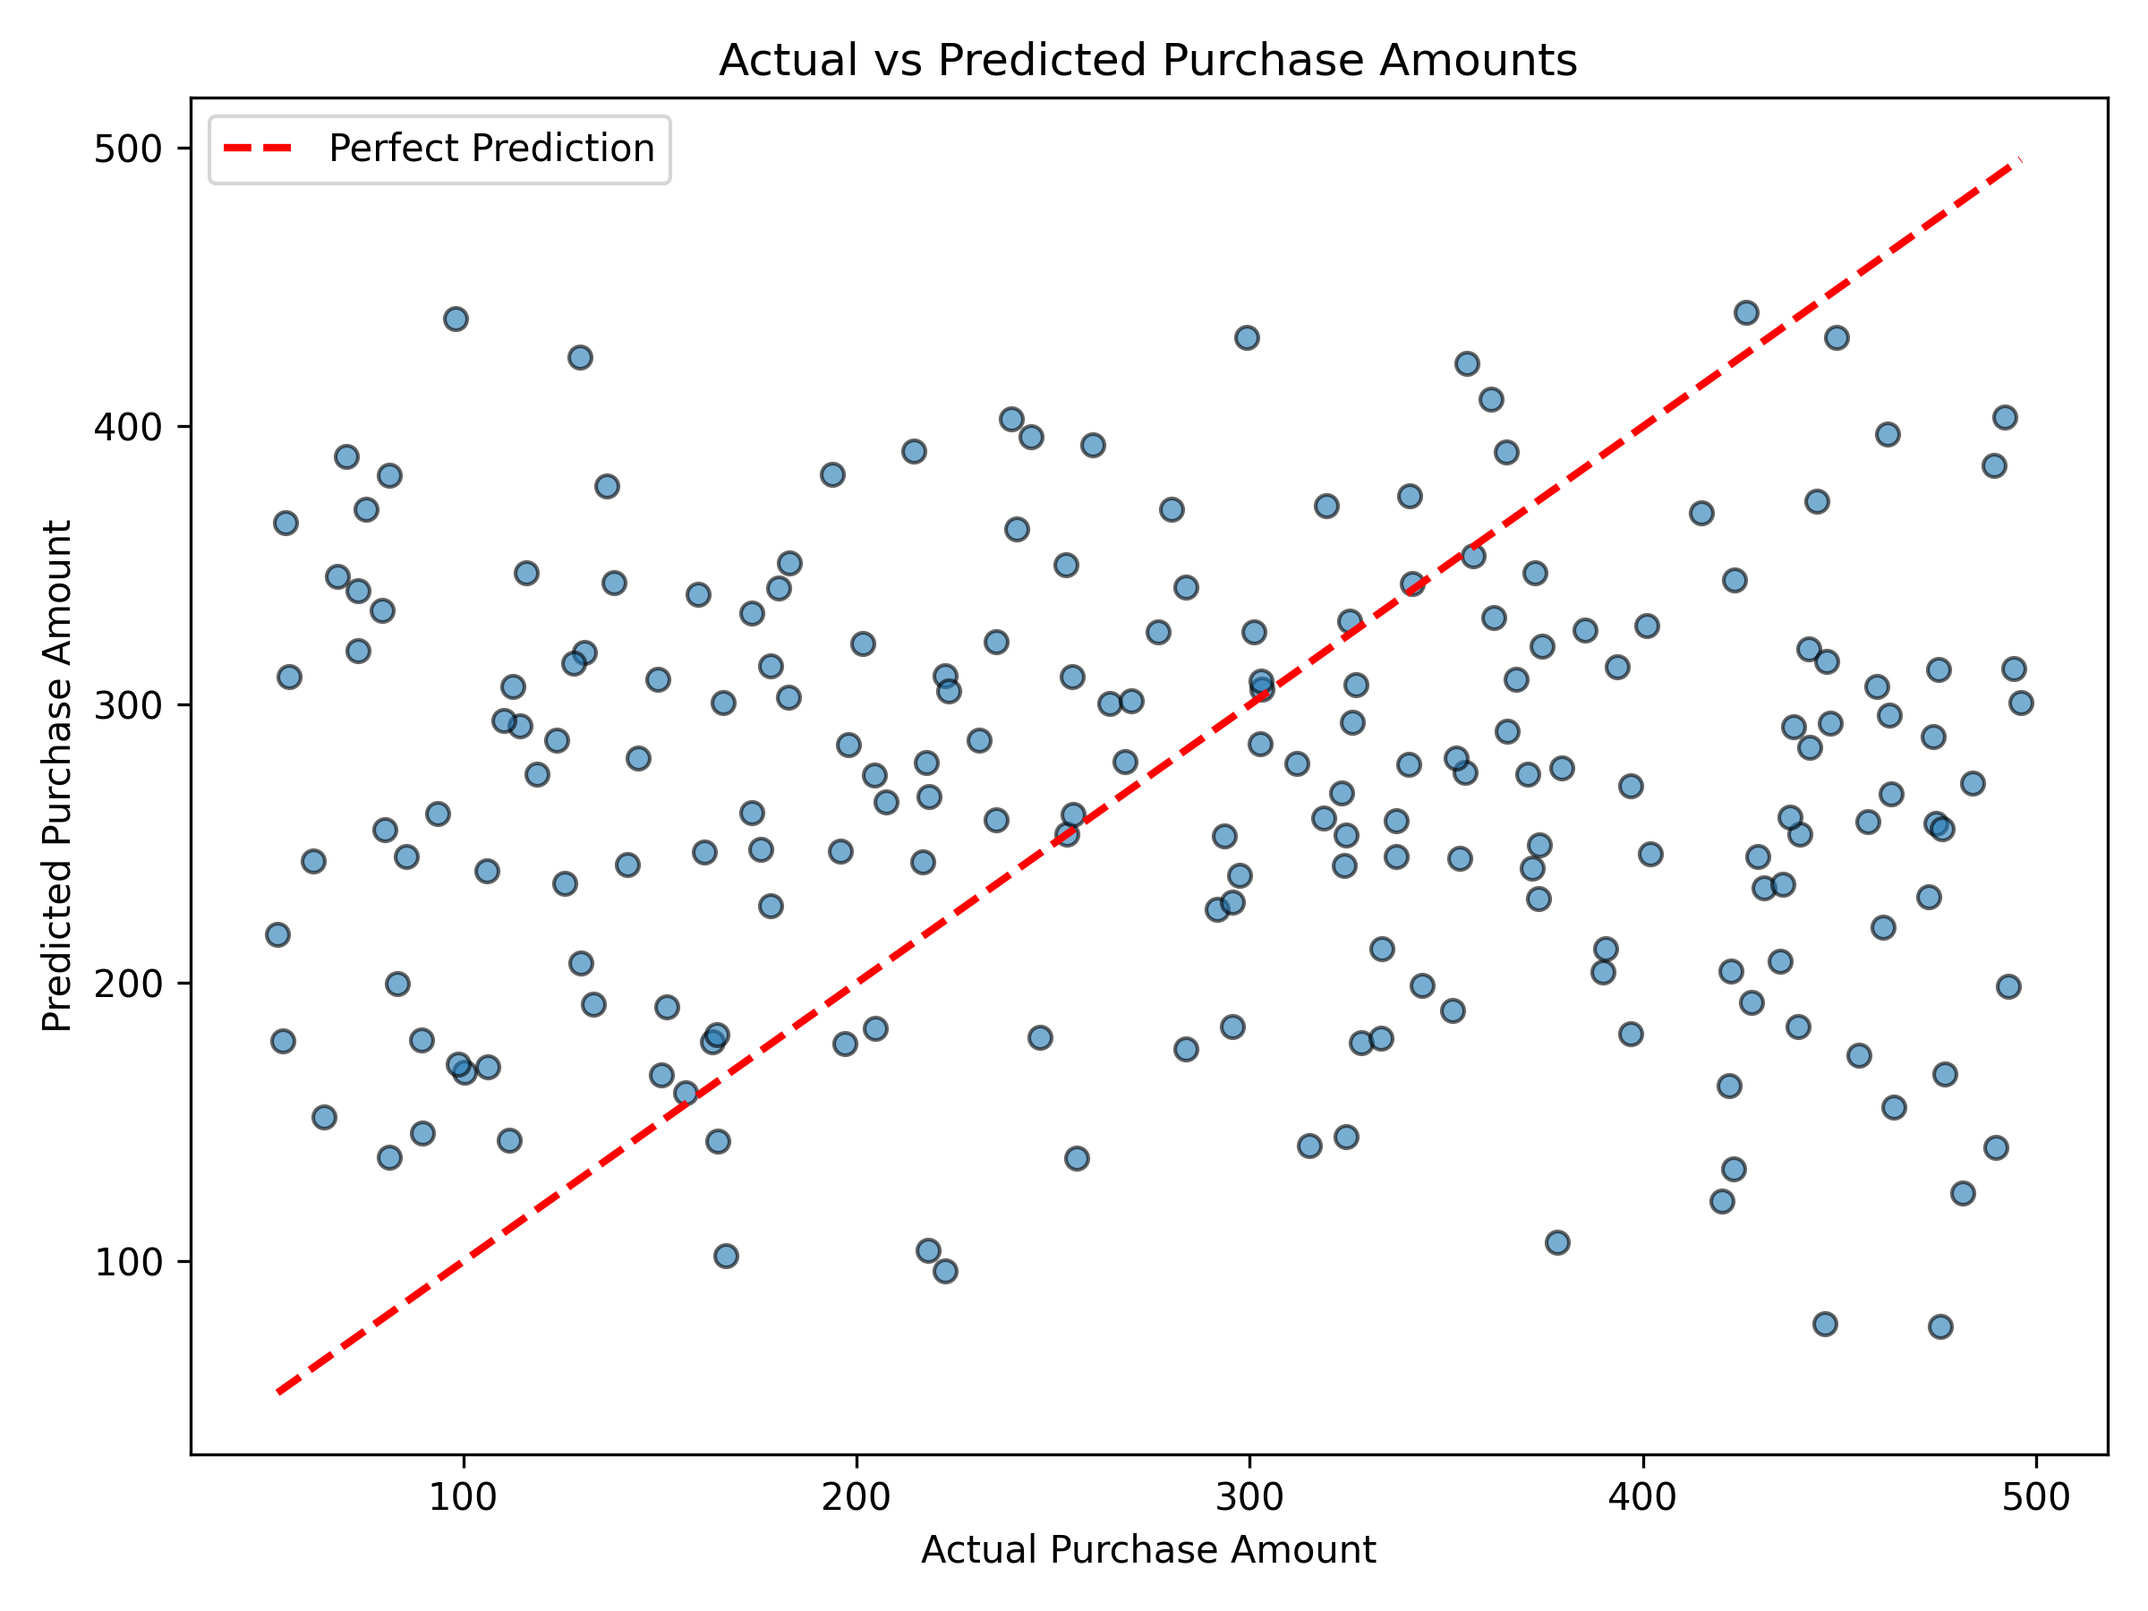
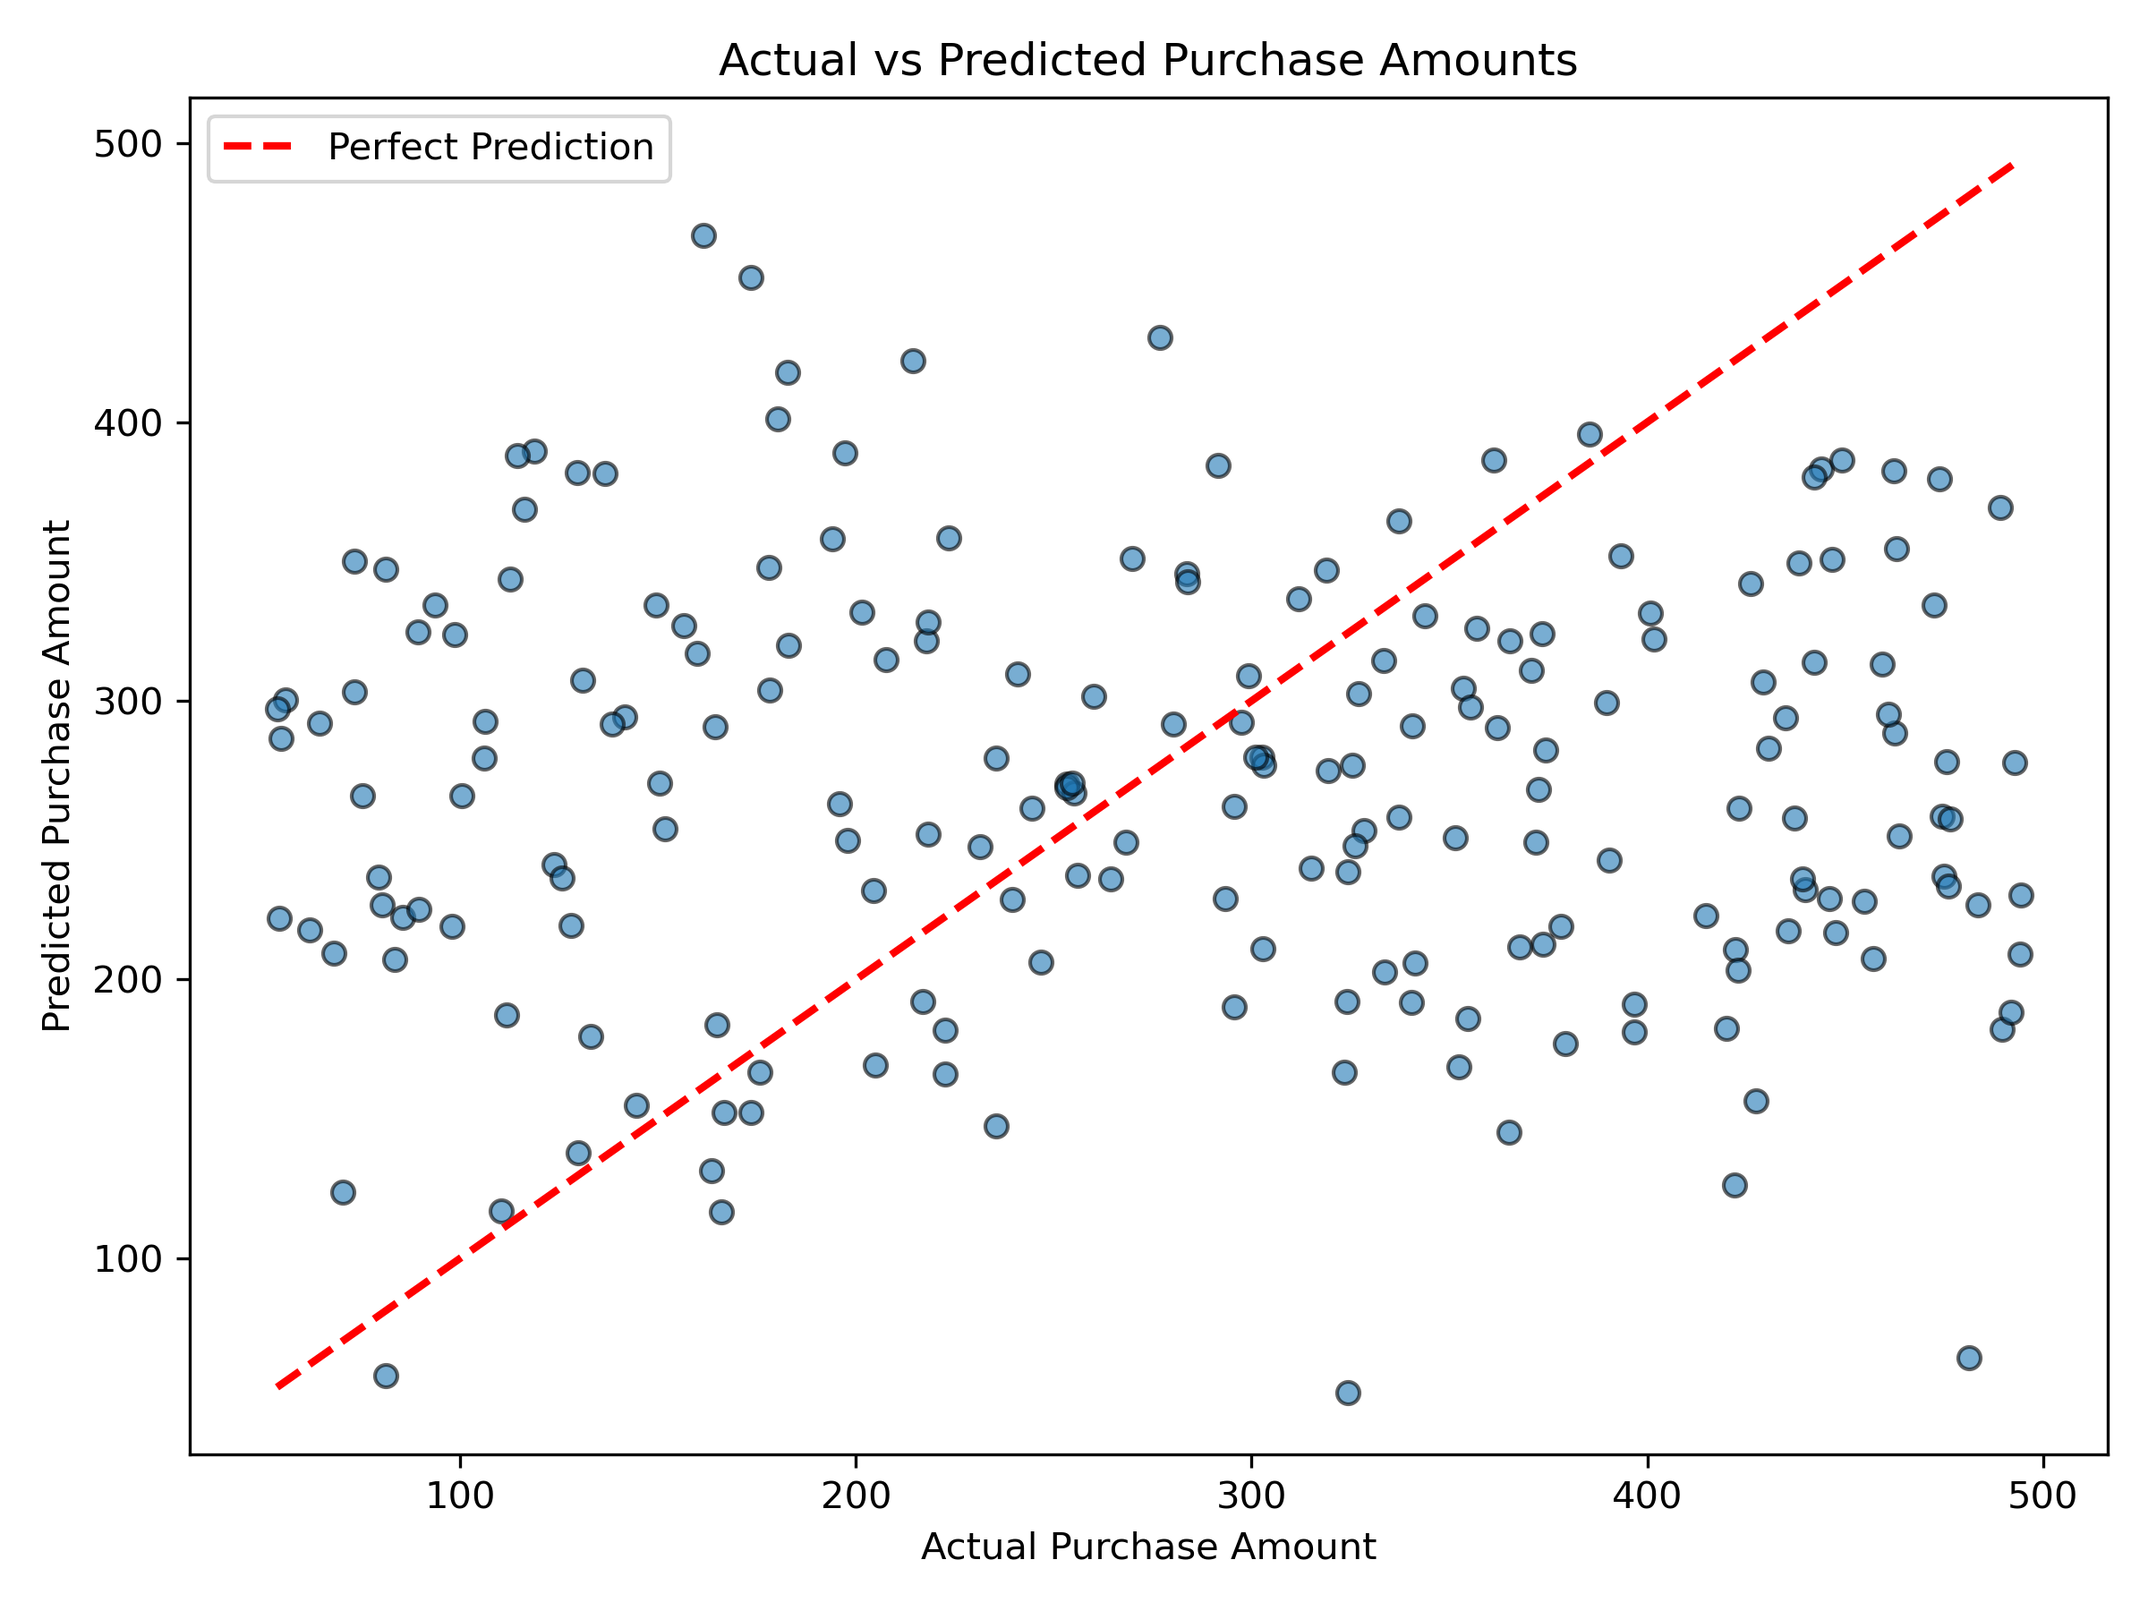
adding different ml methods and updating makefile

diff --git a/data.py b/data.py
@@ -8,10 +8,12 @@ from xgboost import XGBRegressor
 
 # ===================== Utility Functions =====================
 
+
 def clean_purchase_amount(df: pd.DataFrame) -> pd.DataFrame:
     """Cleans the Purchase_Amount column by removing $ and commas, converting to float."""
     df["Purchase_Amount"] = (
-        df["Purchase_Amount"].astype(str)
+        df["Purchase_Amount"]
+        .astype(str)
         .str.replace(r"[\$,]", "", regex=True)
         .astype(float)
     )
@@ -20,20 +22,20 @@ def clean_purchase_amount(df: pd.DataFrame) -> pd.DataFrame:
 
 def summarize_predictions(df: pd.DataFrame, group_col: str) -> pd.DataFrame:
     """Summarize Actual vs Predicted values by a given column."""
-    return (
-        df.groupby(group_col)[["Actual", "Predicted"]]
-        .mean()
-        .reset_index()
-    )
+    return df.groupby(group_col)[["Actual", "Predicted"]].mean().reset_index()
 
 
 def plot_actual_vs_predicted(y_true, y_pred):
     """Scatter plot comparing actual vs predicted purchase amounts."""
     plt.figure(figsize=(8, 6))
     plt.scatter(y_true, y_pred, alpha=0.6, edgecolor="k")
-    plt.plot([y_true.min(), y_true.max()],
-             [y_true.min(), y_true.max()],
-             "r--", lw=2, label="Perfect Prediction")
+    plt.plot(
+        [y_true.min(), y_true.max()],
+        [y_true.min(), y_true.max()],
+        "r--",
+        lw=2,
+        label="Perfect Prediction",
+    )
 
     plt.title("Actual vs Predicted Purchase Amounts")
     plt.xlabel("Actual Purchase Amount")
@@ -56,7 +58,48 @@ def plot_feature_importance(model, feature_names):
     plt.show()
 
 
+def plot_error_distribution(y_true, y_pred):
+    """Histogram of prediction errors (Actual - Predicted)."""
+    errors = y_true - y_pred
+    plt.figure(figsize=(8, 6))
+    plt.hist(errors, bins=30, color="steelblue", edgecolor="k", alpha=0.7)
+    plt.axvline(0, color="red", linestyle="--", lw=2, label="Perfect Prediction")
+    plt.title("Distribution of Prediction Errors")
+    plt.xlabel("Error (Actual - Predicted)")
+    plt.ylabel("Frequency")
+    plt.legend()
+    plt.tight_layout()
+    plt.savefig("error_distribution.png", dpi=300)
+    plt.show()
+
+
+def plot_avg_actual_vs_predicted(df, group_col):
+    """Bar chart comparing average Actual vs Predicted grouped by a column."""
+    grouped = df.groupby(group_col)[["Actual", "Predicted"]].mean().reset_index()
+    grouped.plot(x=group_col, kind="bar", figsize=(8, 6))
+    plt.title(f"Average Actual vs Predicted by {group_col}")
+    plt.ylabel("Purchase Amount")
+    plt.tight_layout()
+    plt.savefig(f"avg_actual_vs_predicted_{group_col}.png", dpi=300)
+    plt.show()
+
+
+def plot_residuals(y_true, y_pred):
+    """Residual plot of prediction errors vs predicted values."""
+    residuals = y_true - y_pred
+    plt.figure(figsize=(8, 6))
+    plt.scatter(y_pred, residuals, alpha=0.6, edgecolor="k")
+    plt.axhline(0, color="red", linestyle="--", lw=2)
+    plt.title("Residual Plot (Errors vs Predicted Values)")
+    plt.xlabel("Predicted Purchase Amount")
+    plt.ylabel("Residual (Actual - Predicted)")
+    plt.tight_layout()
+    plt.savefig("residual_plot.png", dpi=300)
+    plt.show()
+
+
 # ===================== Main Script =====================
+
 
 def main():
     # ===== Inspecting the Data =====
@@ -66,7 +109,7 @@ def main():
     print(consumer_df.describe())
 
     # Missing values + duplicates
-    print("=== Missing values per column ===")
+    print("=== Missing values per column BEFORE cleaning ===")
     print(consumer_df.isnull().sum())
 
     num_duplicates = consumer_df.duplicated().sum()
@@ -74,21 +117,69 @@ def main():
     consumer_df = consumer_df.drop_duplicates()
 
     # ===== Cleaning =====
+    print("\n=== Data Cleaning Steps ===")
     consumer_df = clean_purchase_amount(consumer_df)
+    print("1. Removed $ and commas from Purchase_Amount and converted to float.")
+
+    # Fill missing categorical values with "No engagement"
+    consumer_df["Engagement_with_Ads"] = consumer_df["Engagement_with_Ads"].fillna(
+        "No engagement"
+    )
+    consumer_df["Social_Media_Influence"] = consumer_df[
+        "Social_Media_Influence"
+    ].fillna("No engagement")
+    print(
+        "2. Filled NA in Engagement_with_Ads and Social_Media_Influence with 'No engagement'."
+    )
+
+    # Handle outliers (winsorize numeric columns at 1st/99th percentiles)
+    numeric_cols = [
+        "Purchase_Amount",
+        "Age",
+        "Time_to_Decision",
+        "Customer_Satisfaction",
+        "Product_Rating",
+        "Time_Spent_on_Product_Research(hours)",
+        "Frequency_of_Purchase",
+    ]
+    for col in numeric_cols:
+        lower, upper = consumer_df[col].quantile([0.01, 0.99])
+        consumer_df[col] = consumer_df[col].clip(lower, upper)
+    print("3. Winsorized numeric features at 1st and 99th percentiles.")
+
+    print("\n=== Missing values per column AFTER cleaning ===")
+    print(consumer_df.isnull().sum())
 
     # ===== Grouped Summary =====
-    grouped = consumer_df.groupby(["Gender", "Income_Level", "Education_Level"]).agg(
-        Time_to_Decision_mean=("Time_to_Decision", "mean"),
-        Time_to_Decision_median=("Time_to_Decision", "median"),
-        Avg_Purchase_Amount=("Purchase_Amount", "mean"),
-        Engagement_with_Ads_counts=("Engagement_with_Ads", lambda x: x.value_counts().to_dict()),
-        Count=("Customer_ID", "count")
-    ).reset_index()
+    grouped = (
+        consumer_df.groupby(["Gender", "Income_Level", "Education_Level"])
+        .agg(
+            Time_to_Decision_mean=("Time_to_Decision", "mean"),
+            Time_to_Decision_median=("Time_to_Decision", "median"),
+            Avg_Purchase_Amount=("Purchase_Amount", "mean"),
+            Engagement_with_Ads_counts=(
+                "Engagement_with_Ads",
+                lambda x: x.value_counts().to_dict(),
+            ),
+            Count=("Customer_ID", "count"),
+        )
+        .reset_index()
+    )
     print("\n=== Grouped Summary ===")
     print(grouped.head(20))
 
     # ===== Machine Learning with XGBoost =====
-    features = consumer_df[["Age", "Time_to_Decision", "Customer_Satisfaction"]]
+    features = consumer_df[
+        [
+            "Age",
+            "Time_to_Decision",
+            "Customer_Satisfaction",
+            "Brand_Loyalty",
+            "Product_Rating",
+            "Time_Spent_on_Product_Research(hours)",
+            "Frequency_of_Purchase",
+        ]
+    ]
     target = consumer_df["Purchase_Amount"]
 
     X_train, X_test, y_train, y_test = train_test_split(
@@ -96,10 +187,7 @@ def main():
     )
 
     model = XGBRegressor(
-        n_estimators=200,
-        learning_rate=0.1,
-        random_state=42,
-        n_jobs=-1
+        n_estimators=200, learning_rate=0.1, random_state=42, n_jobs=-1
     )
     model.fit(X_train, y_train)
 
@@ -109,6 +197,7 @@ def main():
     mse = mean_squared_error(y_test, y_pred)
     rmse = np.sqrt(mse)
     r2 = r2_score(y_test, y_pred)
+    print("\n=== Model Performance ===")
     print("MSE:", mse)
     print("RMSE:", rmse)
     print("R²:", r2)
@@ -118,36 +207,43 @@ def main():
     X_test_with_preds["Actual"] = y_test
     X_test_with_preds["Predicted"] = y_pred
 
-    grouped_by_age = summarize_predictions(X_test_with_preds, "Age").sort_values("Age")
-    print("\n=== Average Purchase Amounts by Exact Age ===")
-    print(grouped_by_age.head(20))
+    grouped_by_loyalty = summarize_predictions(
+        X_test_with_preds, "Brand_Loyalty"
+    ).sort_values("Brand_Loyalty")
+    print("\n=== Average Purchase Amounts by Brand Loyalty ===")
+    print(grouped_by_loyalty)
 
-    X_test_with_preds["Age_Group"] = pd.cut(
-        X_test_with_preds["Age"],
-        bins=[0, 25, 35, 50, 65, 100],
-        labels=["<25", "25-35", "35-50", "50-65", "65+"]
-    )
-    grouped_by_age_group = summarize_predictions(X_test_with_preds, "Age_Group")
-    print("\n=== Average Purchase Amounts by Age Group ===")
-    print(grouped_by_age_group)
+    grouped_by_rating = summarize_predictions(
+        X_test_with_preds, "Product_Rating"
+    ).sort_values("Product_Rating")
+    print("\n=== Average Purchase Amounts by Product Rating ===")
+    print(grouped_by_rating)
 
-    grouped_by_satisfaction = summarize_predictions(X_test_with_preds, "Customer_Satisfaction")\
-        .sort_values("Customer_Satisfaction")
-    print("\n=== Average Purchase Amounts by Customer Satisfaction ===")
-    print(grouped_by_satisfaction)
+    grouped_by_frequency = summarize_predictions(
+        X_test_with_preds, "Frequency_of_Purchase"
+    ).sort_values("Frequency_of_Purchase")
+    print("\n=== Average Purchase Amounts by Purchase Frequency ===")
+    print(grouped_by_frequency)
 
-    X_test_with_preds["Decision_Time_Group"] = pd.cut(
-        X_test_with_preds["Time_to_Decision"],
-        bins=[0, 2, 5, 10, 20, 50],
-        labels=["0-2", "3-5", "6-10", "11-20", "20+"]
-    )
-    grouped_by_decision_time = summarize_predictions(X_test_with_preds, "Decision_Time_Group")
-    print("\n=== Average Purchase Amounts by Time to Decision Group ===")
-    print(grouped_by_decision_time)
+    grouped_by_research = summarize_predictions(
+        X_test_with_preds, "Time_Spent_on_Product_Research(hours)"
+    ).sort_values("Time_Spent_on_Product_Research(hours)")
+    print("\n=== Average Purchase Amounts by Time Spent on Product Research ===")
+    print(grouped_by_research)
 
     # ===== Visualizations =====
     plot_actual_vs_predicted(y_test, y_pred)
     plot_feature_importance(model, features.columns)
+    plot_error_distribution(y_test, y_pred)
+
+    X_test_with_preds["Age_Group"] = pd.cut(
+        X_test_with_preds["Age"],
+        bins=[0, 25, 35, 50, 65],
+        labels=["<25", "25-35", "35-50", "50-65"],
+    )
+    plot_avg_actual_vs_predicted(X_test_with_preds, "Age_Group")
+
+    plot_residuals(y_test, y_pred)
 
 
 if __name__ == "__main__":

diff --git a/data_test.py b/data_test.py
@@ -14,8 +14,11 @@ def test_dataset_loads():
     df = pd.read_csv("Ecommerce_Consumer_Behavior_Analysis_Data.csv")
     assert not df.empty
     expected_cols = {
-        "Customer_ID", "Purchase_Amount", "Age",
-        "Time_to_Decision", "Customer_Satisfaction"
+        "Customer_ID",
+        "Purchase_Amount",
+        "Age",
+        "Time_to_Decision",
+        "Customer_Satisfaction",
     }
     assert expected_cols.issubset(df.columns)
 
@@ -35,14 +38,20 @@ def test_groupby_summary():
     df = pd.read_csv("Ecommerce_Consumer_Behavior_Analysis_Data.csv")
     df = clean_purchase_amount(df)
 
-    grouped = df.groupby(["Gender", "Income_Level", "Education_Level"]).agg(
-        Time_to_Decision_mean=("Time_to_Decision", "mean"),
-        Avg_Purchase_Amount=("Purchase_Amount", "mean"),
-        Count=("Customer_ID", "count")
-    ).reset_index()
+    grouped = (
+        df.groupby(["Gender", "Income_Level", "Education_Level"])
+        .agg(
+            Time_to_Decision_mean=("Time_to_Decision", "mean"),
+            Avg_Purchase_Amount=("Purchase_Amount", "mean"),
+            Count=("Customer_ID", "count"),
+        )
+        .reset_index()
+    )
 
     assert not grouped.empty
-    assert {"Time_to_Decision_mean", "Avg_Purchase_Amount", "Count"}.issubset(grouped.columns)
+    assert {"Time_to_Decision_mean", "Avg_Purchase_Amount", "Count"}.issubset(
+        grouped.columns
+    )
 
 
 def test_model_training_and_prediction():
@@ -117,11 +126,72 @@ def test_summarize_predictions_runs():
 
 def test_empty_dataset_behavior():
     """Empty dataframe should not break cleaning logic."""
-    df = pd.DataFrame(columns=[
-        "Customer_ID", "Purchase_Amount", "Age",
-        "Time_to_Decision", "Customer_Satisfaction"
-    ])
+    df = pd.DataFrame(
+        columns=[
+            "Customer_ID",
+            "Purchase_Amount",
+            "Age",
+            "Time_to_Decision",
+            "Customer_Satisfaction",
+        ]
+    )
     df = clean_purchase_amount(df)
 
     assert df.empty
     assert "Purchase_Amount" in df.columns
+
+
+# ===================== New Tests =====================
+
+
+def test_missing_values_filled():
+    """Categorical columns should have no NaNs after filling."""
+    df = pd.read_csv("Ecommerce_Consumer_Behavior_Analysis_Data.csv")
+    df = clean_purchase_amount(df)
+
+    df["Engagement_with_Ads"] = df["Engagement_with_Ads"].fillna("No engagement")
+    df["Social_Media_Influence"] = df["Social_Media_Influence"].fillna("No engagement")
+
+    assert df["Engagement_with_Ads"].isnull().sum() == 0
+    assert df["Social_Media_Influence"].isnull().sum() == 0
+
+
+def test_outlier_clipping():
+    """Numeric columns should be clipped at the 1st and 99th percentiles."""
+    df = pd.read_csv("Ecommerce_Consumer_Behavior_Analysis_Data.csv")
+    df = clean_purchase_amount(df)
+
+    numeric_cols = [
+        "Purchase_Amount",
+        "Age",
+        "Time_to_Decision",
+        "Customer_Satisfaction",
+        "Product_Rating",
+        "Time_Spent_on_Product_Research(hours)",
+        "Frequency_of_Purchase",
+    ]
+
+    for col in numeric_cols:
+        lower, upper = df[col].quantile([0.01, 0.99])
+        clipped = df[col].clip(lower, upper)
+        assert clipped.min() >= lower
+        assert clipped.max() <= upper
+
+
+def test_error_distribution_computation():
+    """Prediction errors should be finite values."""
+    df = pd.read_csv("Ecommerce_Consumer_Behavior_Analysis_Data.csv")
+    df = clean_purchase_amount(df)
+
+    features = df[["Age", "Time_to_Decision", "Customer_Satisfaction"]]
+    target = df["Purchase_Amount"]
+
+    X_train, X_test, y_train, y_test = train_test_split(
+        features, target, test_size=0.2, random_state=42
+    )
+    model = XGBRegressor(n_estimators=10, random_state=42)
+    model.fit(X_train, y_train)
+    y_pred = model.predict(X_test)
+
+    errors = y_test - y_pred
+    assert np.isfinite(errors).all()
